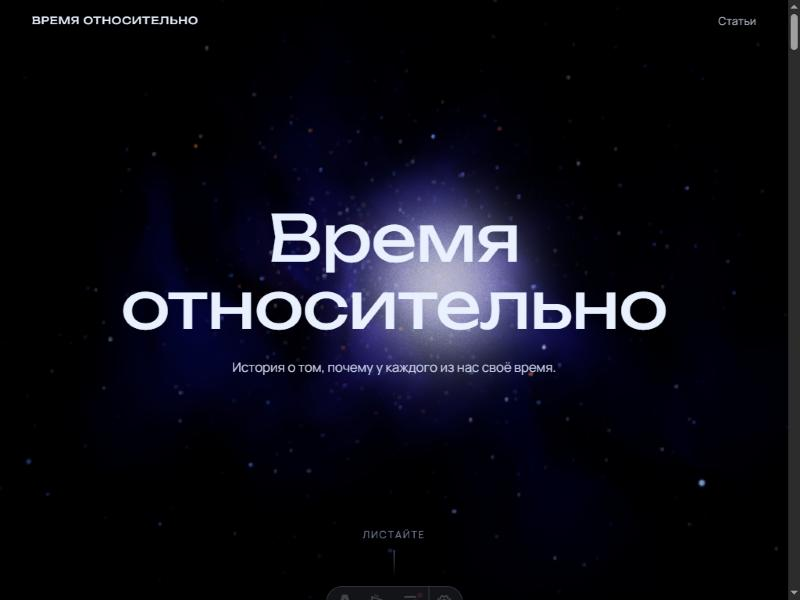
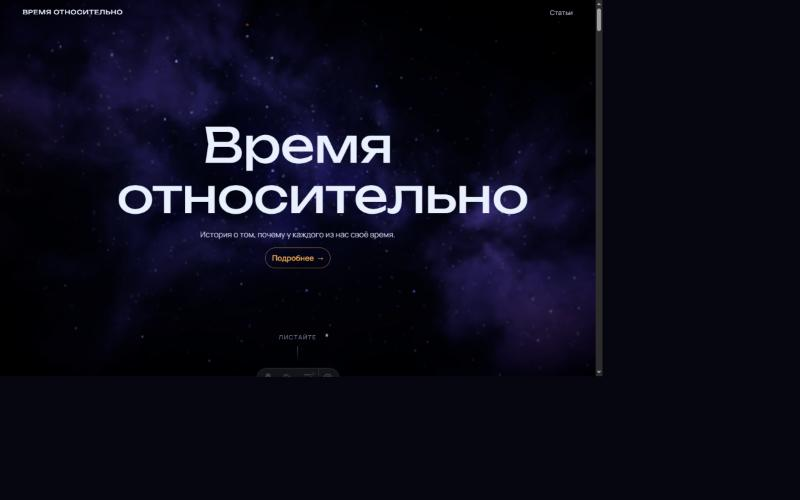
feat: богаче фон — небесный купол с туманностями, ореолы и второй слой звёзд
Skydome: сфера за камерой с трёхмерным fbm-шумом, доменным искажением,
пылевыми полосами, полосой Млечного Пути и тёплыми областями; число октав
зависит от уровня качества. Звёзды: у ярких мягкий ореол и лучи, добавлена
россыпь мелких. Плоские туманности сокращены до двух ближних слоёв для
параллакса. Циферблаты вводной: округление координат (гидрация).

diff --git a/src/scene/Skydome.tsx b/src/scene/Skydome.tsx
@@ -1,0 +1,104 @@
+import { useMemo, useRef } from 'react';
+import { useFrame } from '@react-three/fiber';
+import { BackSide, Mesh, ShaderMaterial, Vector3 } from 'three';
+import { useStory, type Quality } from '../story/store';
+
+/**
+ * Небесный купол: туманности по направлению взгляда. Сфера следует за камерой,
+ * поэтому это «бесконечный» фон, а параллакс дают пыль и ближние слои.
+ * Шум трёхмерный с доменным искажением, пылевые полосы и полоса Млечного Пути.
+ */
+const OCTAVES: Record<Quality, number> = { high: 6, medium: 4, low: 3 };
+
+const vert = /* glsl */ `
+varying vec3 vDir;
+void main() {
+  vDir = position;
+  vec4 mv = modelViewMatrix * vec4(position, 1.0);
+  gl_Position = projectionMatrix * mv;
+}
+`;
+
+const frag = (octaves: number) => /* glsl */ `
+uniform float uTime;
+uniform float uIntensity;
+uniform vec3 uBand;
+varying vec3 vDir;
+
+float hash3(vec3 p) {
+  p = fract(p * 0.3183099 + vec3(0.1, 0.2, 0.3));
+  p *= 17.0;
+  return fract(p.x * p.y * p.z * (p.x + p.y + p.z));
+}
+float noise3(vec3 x) {
+  vec3 i = floor(x);
+  vec3 f = fract(x);
+  f = f * f * (3.0 - 2.0 * f);
+  return mix(
+    mix(mix(hash3(i), hash3(i + vec3(1, 0, 0)), f.x), mix(hash3(i + vec3(0, 1, 0)), hash3(i + vec3(1, 1, 0)), f.x), f.y),
+    mix(mix(hash3(i + vec3(0, 0, 1)), hash3(i + vec3(1, 0, 1)), f.x), mix(hash3(i + vec3(0, 1, 1)), hash3(i + vec3(1, 1, 1)), f.x), f.y),
+    f.z);
+}
+float fbm(vec3 p) {
+  float v = 0.0;
+  float a = 0.5;
+  for (int i = 0; i < ${octaves}; i++) {
+    v += a * noise3(p);
+    p = p * 2.03 + vec3(11.3, 7.1, 3.7);
+    a *= 0.5;
+  }
+  return v;
+}
+
+void main() {
+  vec3 d = normalize(vDir);
+  vec3 q = d * 2.3;
+  // доменное искажение: клочья и волокна вместо ровных пятен
+  vec3 warp = vec3(fbm(q + vec3(1.7, 9.2, 3.3)), fbm(q + vec3(8.3, 2.8, 5.1)), fbm(q + vec3(4.1, 6.4, 1.9)));
+  float n = fbm(q + 1.7 * warp + uTime * 0.003);
+  float lanes = fbm(q * 3.3 + vec3(5.0, 1.0, 2.0));
+  // полоса Млечного Пути: ярче у большого круга, перпендикулярного uBand
+  float band = exp(-pow(dot(d, uBand) * 2.6, 2.0));
+  float density = smoothstep(0.46, 0.86, n) * (0.25 + 0.75 * band);
+  density *= 1.0 - 0.65 * smoothstep(0.52, 0.70, lanes);
+
+  vec3 deep = vec3(0.035, 0.05, 0.19);
+  vec3 violet = vec3(0.26, 0.19, 0.62);
+  vec3 magenta = vec3(0.60, 0.30, 0.66);
+  vec3 warm = vec3(0.90, 0.48, 0.22);
+  vec3 col = mix(deep, violet, smoothstep(0.30, 0.70, n));
+  col = mix(col, magenta, smoothstep(0.66, 0.92, n));
+  float warmMask = smoothstep(0.58, 0.80, fbm(d * 1.4 + vec3(20.0, 3.0, 7.0)));
+  col = mix(col, warm, warmMask * 0.55);
+
+  // мелкие яркие зёрна в плотных местах: намёк на неразрешённые звёзды
+  float grain = pow(noise3(d * 160.0), 34.0) * density * 1.2;
+
+  vec3 outCol = col * density * uIntensity + vec3(0.9, 0.92, 1.0) * grain + vec3(0.008, 0.010, 0.024);
+  gl_FragColor = vec4(outCol, 1.0);
+}
+`;
+
+export function Skydome() {
+  const quality = useStory((s) => s.quality);
+  const mesh = useRef<Mesh>(null);
+  const mat = useMemo(
+    () =>
+      new ShaderMaterial({
+        vertexShader: vert,
+        fragmentShader: frag(OCTAVES[quality]),
+        uniforms: { uTime: { value: 0 }, uIntensity: { value: 0.6 }, uBand: { value: new Vector3(0.35, 0.9, 0.25).normalize() } },
+        side: BackSide,
+        depthWrite: false,
+        depthTest: false,
+      }),
+    [quality],
+  );
+  useFrame((state) => {
+    mat.uniforms.uTime.value = state.clock.elapsedTime;
+    mesh.current?.position.copy(state.camera.position);
+  });
+  return <mesh ref={mesh} material={mat} renderOrder={-10} frustumCulled={false}>
+    <sphereGeometry args={[700, 48, 32]} />
+  </mesh>;
+}

diff --git a/src/scene/Background.tsx b/src/scene/Background.tsx
@@ -4,11 +4,12 @@ import { AdditiveBlending, BufferGeometry, Color, Float32BufferAttribute, Points
 import { useCameraCurve } from './CameraRig';
 import { storyStore, useStory, type Quality } from '../story/store';
 import { nebulaFrag, nebulaVert, starsFrag, starsVert } from './shaders';
+import { Skydome } from './Skydome';
 
-const COUNTS: Record<Quality, { far: number; dust: number }> = {
-  high: { far: 7000, dust: 2200 },
-  medium: { far: 3000, dust: 900 },
-  low: { far: 1400, dust: 350 },
+const COUNTS: Record<Quality, { far: number; faint: number; dust: number }> = {
+  high: { far: 6000, faint: 9000, dust: 2200 },
+  medium: { far: 2600, faint: 3500, dust: 900 },
+  low: { far: 1200, faint: 1200, dust: 350 },
 };
 
 /** Цвет звезды: холодные белые и голубые, редкие тёплые. */
@@ -63,7 +64,7 @@ export function starMaterial(attenuate: number, scale: number, intensity: number
 }
 
 /** Далёкие звёзды: сфера вокруг камеры, как бы на бесконечности. */
-function FarStars({ count }: { count: number }) {
+function FarStars({ count, sizeMin = 1.0, sizeMax = 3.4, intensity = 1.0, seedShift = 0 }: { count: number; sizeMin?: number; sizeMax?: number; intensity?: number; seedShift?: number }) {
   const ref = useRef<Points>(null);
   const dpr = useThree((s) => s.viewport.dpr);
   const geo = useMemo(
@@ -74,14 +75,14 @@ function FarStars({ count }: { count: number }) {
           const u = Math.random() * 2 - 1;
           const th = Math.random() * Math.PI * 2;
           const r = Math.sqrt(1 - u * u);
-          v.set(r * Math.cos(th) * 600, u * 600, r * Math.sin(th) * 600);
+          v.set(r * Math.cos(th) * (600 + seedShift), u * (600 + seedShift), r * Math.sin(th) * (600 + seedShift));
         },
-        1.0,
-        3.2,
+        sizeMin,
+        sizeMax,
       ),
-    [count],
+    [count, sizeMin, sizeMax, seedShift],
   );
-  const mat = useMemo(() => starMaterial(0, 1, 1.0, dpr), [dpr]);
+  const mat = useMemo(() => starMaterial(0, 1, intensity, dpr), [dpr, intensity]);
 
   useFrame((state) => {
     if (!ref.current) return;
@@ -163,13 +164,14 @@ export function Background() {
   const n = COUNTS[quality];
   return (
     <group>
+      <Skydome />
+      {/* два слоя звёзд: яркие с ореолами и россыпь мелких */}
       <FarStars count={n.far} />
+      <FarStars count={n.faint} sizeMin={0.5} sizeMax={1.3} intensity={0.6} seedShift={20} />
       <Dust count={n.dust} />
-      {/* Туманности позади дороги: интро, середина, за чёрной дырой, финал */}
-      <Nebula position={[-30, 10, -140]} size={260} a="#0b0f2a" b="#6d5dfc" alpha={0.5} />
-      <Nebula position={[40, -20, -90]} size={200} a="#0b0f2a" b="#2b4cff" alpha={0.35} />
-      <Nebula position={[10, 0, -300]} size={320} a="#141a4a" b="#8a6dff" alpha={0.6} />
-      <Nebula position={[-50, 30, -330]} size={240} a="#0b0f2a" b="#ff9a3c" alpha={0.18} />
+      {/* ближние клочья для параллакса: за чёрной дырой и у середины дороги */}
+      <Nebula position={[-30, 10, -140]} size={220} a="#0b0f2a" b="#6d5dfc" alpha={0.28} />
+      <Nebula position={[10, 0, -300]} size={300} a="#141a4a" b="#8a6dff" alpha={0.4} />
     </group>
   );
 }

diff --git a/src/scene/shaders.ts b/src/scene/shaders.ts
@@ -11,12 +11,14 @@ attribute float aPhase;
 attribute vec3 aColor;
 varying vec3 vColor;
 varying float vTwinkle;
+varying float vSize;
 void main() {
   vec4 mv = modelViewMatrix * vec4(position, 1.0);
   float att = mix(1.0, uScale / max(-mv.z, 1.0), uAttenuate);
   float tw = 0.7 + 0.3 * sin(uTime * (0.8 + aPhase * 2.0) + aPhase * 6.2831);
   vTwinkle = tw;
   vColor = aColor;
+  vSize = aSize;
   gl_PointSize = aSize * uPixelRatio * att * (1.0 + uTravel * 0.6);
   gl_Position = projectionMatrix * mv;
 }
@@ -26,14 +28,20 @@ export const starsFrag = /* glsl */ `
 uniform float uIntensity;
 varying vec3 vColor;
 varying float vTwinkle;
+varying float vSize;
 void main() {
   vec2 c = gl_PointCoord - 0.5;
   float d = length(c) * 2.0;
-  float core = smoothstep(1.0, 0.0, d);
-  float a = pow(core, 2.2);
+  float core = smoothstep(0.55, 0.0, d);
+  // у крупных звёзд мягкий ореол и лёгкие лучи по осям
+  float big = smoothstep(2.2, 3.2, vSize);
+  float halo = exp(-d * 3.2) * 0.55 * big;
+  float spikes = exp(-abs(c.x) * 14.0) * exp(-abs(c.y) * 1.6) + exp(-abs(c.y) * 14.0) * exp(-abs(c.x) * 1.6);
+  spikes *= 0.35 * big * smoothstep(1.0, 0.2, d);
+  float a = pow(core, 1.6) + halo + spikes;
   if (a < 0.01) discard;
   vec3 col = vColor * uIntensity * vTwinkle;
-  gl_FragColor = vec4(col * a, a);
+  gl_FragColor = vec4(col * a, min(a, 1.0));
 }
 `;
 

diff --git a/src/components/article/interactives/IntroLab.tsx b/src/components/article/interactives/IntroLab.tsx
@@ -28,7 +28,9 @@ function Dial({ rate, title, note, accent }: { rate: number; title: string; note
         <circle className="dial-face" cx="50" cy="50" r="44" />
         {Array.from({ length: 12 }, (_, i) => {
           const a = (i / 12) * Math.PI * 2;
-          return <line key={i} className="dial-tick" x1={50 + Math.sin(a) * 38} y1={50 - Math.cos(a) * 38} x2={50 + Math.sin(a) * 42} y2={50 - Math.cos(a) * 42} />;
+          // округляем, иначе сервер и клиент печатают дроби по-разному и React ругается на гидрацию
+          const r2 = (v: number) => Math.round(v * 100) / 100;
+          return <line key={i} className="dial-tick" x1={r2(50 + Math.sin(a) * 38)} y1={r2(50 - Math.cos(a) * 38)} x2={r2(50 + Math.sin(a) * 42)} y2={r2(50 - Math.cos(a) * 42)} />;
         })}
         <g className="dial-hand" style={{ animationDuration: `${duration}s` }}>
           <line x1="50" y1="54" x2="50" y2="16" />
